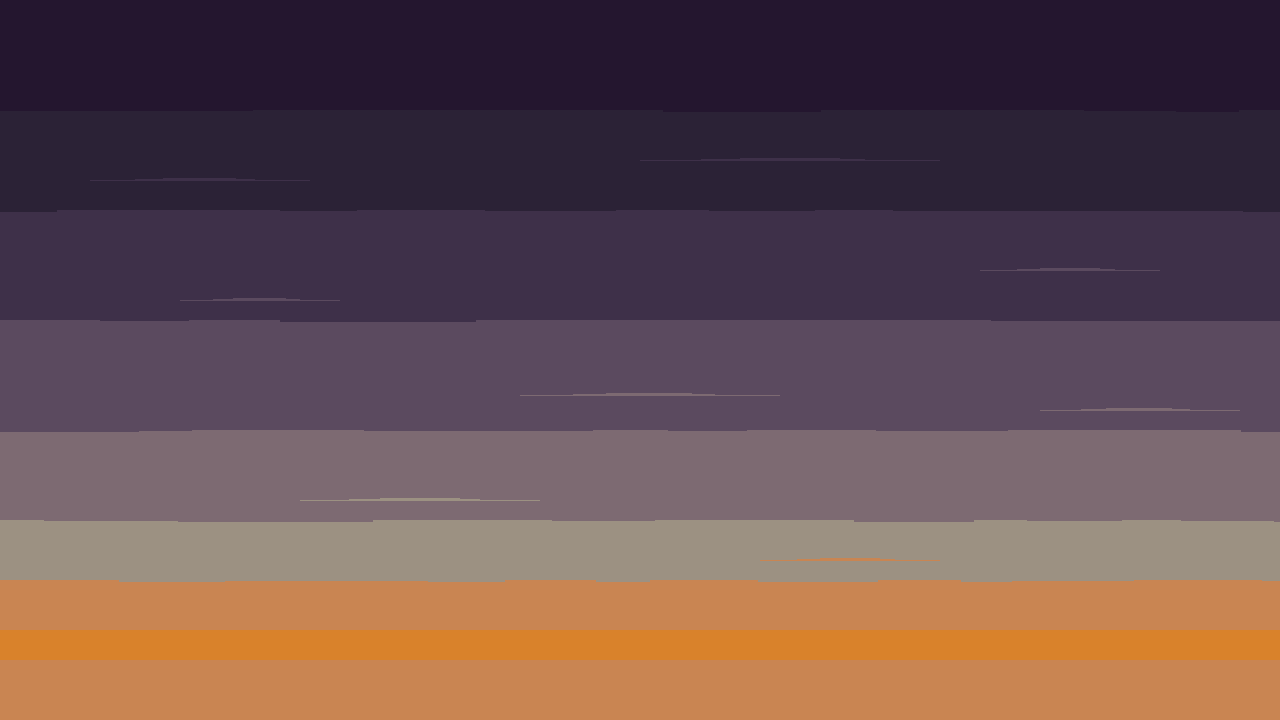
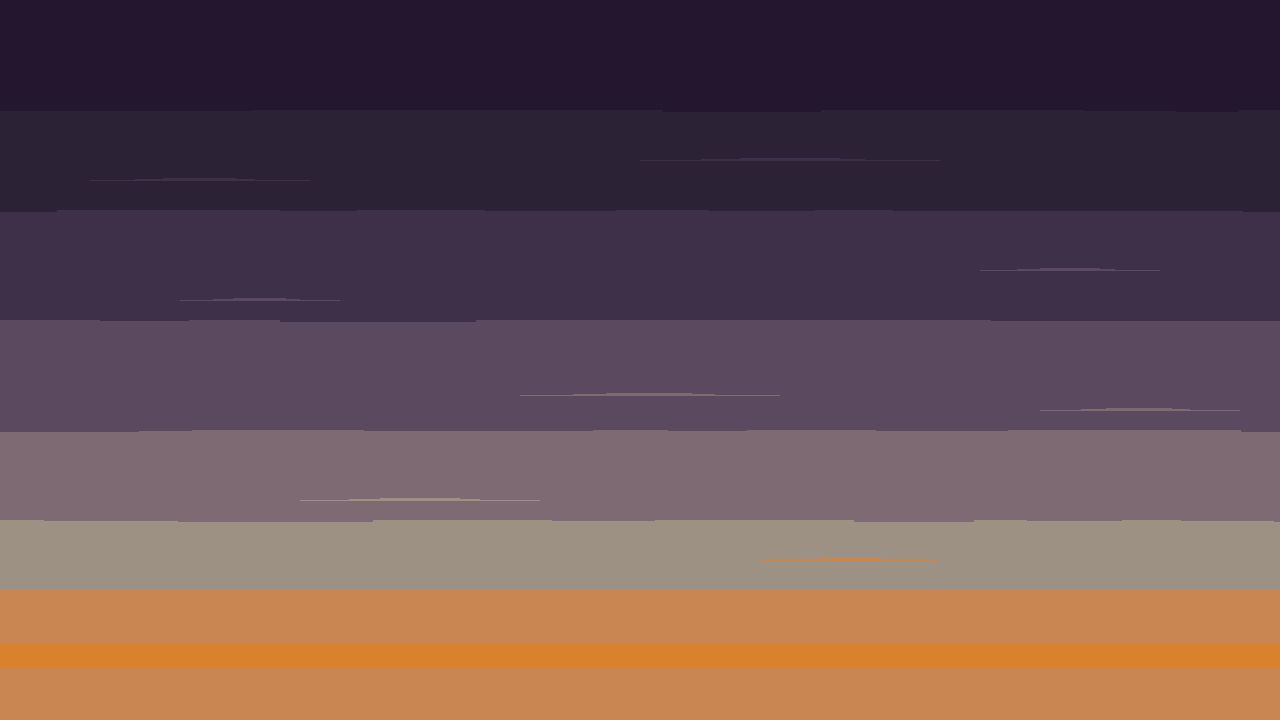
Art Director (WIP): era V rot sheets, mockup tools, violet sky
Claude-Session: https://claude.ai/code/session_013hgiVthTsnhGySSf7gyoCD

Changed region(s): [[0.0, 0.8556, 1.0, 0.9472], [0.0, 0.7944, 1.0, 0.825]]

diff --git a/scripts/art/era5/mock5.py b/scripts/art/era5/mock5.py
@@ -1,0 +1,187 @@
+# Era I-V machine mock + finale key-frame scenes (ART_ERA5). Art-res compositor (1 art px = 1 px).
+# usage: python3 mock5.py out.png            machine on a sky crop (SKY=old|violet|restored), 2x/3x copies written
+#        SCENE=1 python3 mock5.py out.png    1280x720 screen at zoom 0.5 with parallax layers (see scene())
+# env:   U5 era V stage 0..9 (1 nullChamber 2 containmentRing1 3 resonantSiphon1 4 graviticAnchor1 5 inversionCrank
+#        6 lensArray 7 horizonField 8 skyAperture 9 all max), K5 anim frame, PH bead phase deg, AP aperture frame 0..5,
+#        ECL eclipse frame 0..5, plus mock_base env (UNLOCK, U4, K4, CRANK).
+import sys, os, math, json
+sys.path.insert(0, os.path.dirname(os.path.abspath(__file__)))
+from mock_base import *                       # builds eras I-IV into compose.items
+import compose as C
+import numpy as np
+from PIL import Image
+HERE = os.path.dirname(os.path.abspath(__file__))
+R5 = os.path.abspath(HERE + '/../../../public/assets') + '/'
+E5 = R5 + 'machine/era5/'
+SCR = '/tmp/claude-0/-home-user-WhatExatlyDoesThisMachineDo/0b9fa637-9555-52ff-9a39-17f862f1fdae/scratchpad/era5/'
+GEO = json.load(open(os.environ.get('ERA5_GEO', SCR + 'era5-geo.json')))
+U5 = int(os.environ.get('U5', '9')); K5 = int(os.environ.get('K5', '2')); PH = float(os.environ.get('PH', '40'))
+AP = int(os.environ.get('AP', '5' if U5 >= 8 else '0')); PLATE = int(os.environ.get('PLATE', '4'))
+h5 = lambda n: U5 >= n
+OUT = sys.argv[1]
+
+def guy(p, q, sag):
+    cable(p, q, sag, hexc('#3e4246'), FRAME + 5); cable((p[0], p[1] + 1), (q[0], q[1] + 1), sag, hexc('#1f2225'), FRAME + 5)
+
+sprite(E5 + 'name-plate.png', 64, -102, .5, .5, FRAME + 2, frame=(40, 11, PLATE, 6))
+if h5(1):
+    sprite(E5 + 'null-gallery.png', 64, -396, .5, 1, MID + 3)
+    sprite(E5 + 'null-chamber.png', 64, -419, .5, 1, MID + 2)
+    import random as _r
+    k = int(os.environ.get('CORE', '9')) % 64
+    sprite(E5 + 'rot/null-core-rot.png', 64, -490, .5, .5, MID + 2.5, frame=(64, 64, k, 8))
+    sprite(E5 + 'null-core-glint.png', 64, -490, .5, .5, MID + 2.6)
+    nring = 4 if U5 >= 9 else (1 if h5(2) else 0)
+    for i, r in enumerate(GEO['rings'][:nring]):
+        sprite(E5 + r['back'], 64, -490, .5, .5, MID + 1)
+        sprite(E5 + r['front'], 64, -490, .5, .5, MID + 5)
+        ph = math.radians(PH + 97 * i); t = math.radians(r['t'])
+        x, y = r['a'] * math.cos(ph), r['b'] * math.sin(ph)
+        X, Y = x * math.cos(t) - y * math.sin(t), x * math.sin(t) + y * math.cos(t)
+        sprite(E5 + 'ring-bead.png', 64 + X, -490 + Y, .5, .5, MID + 5.5 if math.sin(ph) >= 0 else MID + 1.5)
+    npair = 3 if U5 >= 9 else (1 if h5(3) else 0)
+    for st in range(npair):
+        for x in GEO['siphon']['pairs'][st]: sprite(E5 + 'siphon-tube.png', x, -419, .5, 1, MID + 6)
+        sprite(E5 + f'siphon-arcs-{st + 1}.png', 0, -500, 0, 0, MID + 7, frame=(128, 64, (K5 + st) % 4, 4))
+    if h5(4):
+        gst = 3 if U5 >= 9 else 1
+        for sx in (-520, 520):
+            sprite(E5 + 'gravitic-anchor.png', sx, 0, .5, 1, MID + 0)
+            sprite(E5 + f'anchor-glow-{gst}.png', sx, 0, .5, 1, MID + 0.5, frame=(32, 128, K5 % 4, 4))
+        guy((1, -528), (-520, -121), 6); guy((126, -528), (520, -121), 6)
+        for (x, w) in ((-536, 32), (504, 32)):
+            items.append((-1, len(items), ('pix', [(C.OX + x + i, C.OY + j, hexc('#5f5244')) for i in range(w) for j in (0, 1)])))
+    if h5(5):
+        sprite(E5 + 'rot/inversion-ghost-rot.png', 0, -56, .5, .5, FRONT - 1, frame=(48, 48, (80 - int(os.environ.get('CRANK', '10'))) % 80, 9))
+    if h5(6):
+        sprite(E5 + 'lens-light.png', 64, -535, .5, 1, MID + 1, frame=(32, 48, 2 if U5 >= 8 else K5 % 4, 4))
+        sprite(E5 + 'lens-column.png', 64, -535, .5, 1, MID + 3)
+        sprite(E5 + 'aperture.png', 64, -583, .5, 1, MID + 3, frame=(64, 28, AP, 6))
+    if h5(8) and os.environ.get('BEAM', '1') == '1':
+        bw = os.environ.get('BEAMFILE', 'beam')
+        bim = Image.open(R5 + f'fx/{bw}.png').convert('RGBA').crop(((K5 % 4) * 16, 0, (K5 % 4) * 16 + 16, 32))
+        col = Image.new('RGBA', (16, 4096), (0, 0, 0, 0))
+        for y in range(0, 4096, 32): col.alpha_composite(bim, (0, y))
+        top = -588 - 4096
+        items.append((40, len(items), ('img', col, C.OX + 64 - 8, C.OY + top)))
+# shadows already in era III list; era V anchors added above.
+
+def machine_layer():
+    """machine items rendered on a transparent canvas (for scene composition)."""
+    c = Image.new('RGBA', (C.W, C.H), (0, 0, 0, 0))
+    for d, o, it in sorted(items, key=lambda t: (t[0], t[1])):
+        if it[0] == 'img': c.alpha_composite(it[1], (int(it[2]), int(it[3])))
+        else:
+            a = np.array(c)
+            for x, y, col in it[1]:
+                if 0 <= x < C.W and 0 <= y < C.H: a[y, x] = col
+            c = Image.fromarray(a)
+    return c
+
+def tile_x(im, width, x0):
+    out = Image.new('RGBA', (width, im.height), (0, 0, 0, 0)); w = im.width; x = -(x0 % w)
+    while x < width: out.alpha_composite(im, (x, 0)) if x >= 0 else out.alpha_composite(im.crop((-x, 0, w, im.height)), (0, 0)); x += w
+    return out
+def with_alpha(im, a):
+    arr = np.array(im).astype(float); arr[..., 3] *= a; return Image.fromarray(arr.astype(np.uint8))
+def tint(im, rgb):
+    arr = np.array(im).astype(float); arr[..., :3] *= np.array(rgb) / 255.0; return Image.fromarray(arr.astype(np.uint8))
+
+def scene(out):
+    """1280x720 screen, zoom 0.5 (1 art px = 1 screen px), camera centred on the machine bounds (x 0, y -300 art)."""
+    W, H = 1280, 720; gy = 360 + 300 + int(os.environ.get('CAMDY', '0'))   # screen row of art y 0
+    gx = 640
+    mode = os.environ.get('WORLD', 'violet')     # old | violet | mid | restored
+    mix = float(os.environ.get('MIX', '0.5'))
+    sky_old = Image.open(R5 + 'bg/sky.png').convert('RGBA')
+    sky_v = Image.open(R5 + 'finale/sky-violet.png').convert('RGBA')
+    sky_r = Image.open(R5 + 'finale/sky-restored.png').convert('RGBA')
+    if mode == 'old': sky = sky_old.copy()
+    elif mode == 'violet': sky = sky_v.copy()
+    elif mode == 'mid': sky = Image.blend(sky_v, sky_r, mix)
+    else: sky = sky_r.copy()
+    hz = float(os.environ.get('HORIZON', '0.55' if mode in ('violet',) else '0'))
+    if hz > 0: sky.alpha_composite(with_alpha(Image.open(R5 + 'finale/horizon-glow.png').convert('RGBA'), hz))
+    ecl = int(os.environ.get('ECL', '5' if mode == 'violet' else '0'))
+    if mode != 'restored' and not (mode == 'mid' and mix > .5):
+        e = Image.open(R5 + 'finale/eclipse.png').convert('RGBA').crop((ecl * 48, 0, ecl * 48 + 48, 48))
+        sky.alpha_composite(e, (372 - 24, 290 - 24))
+    cv = sky.copy()
+    d_art = 300 - 80                                  # camera centre above CAMERA.focus (art px)
+    def layer(old, new, sf, alpha, ground_row, underfill, tnt=None):
+        lift = int(round(d_art * (1 - sf)))           # parallax: layer horizon rises above the machine ground
+        y_ground = gy - lift
+        imgs = []
+        if mode in ('old', 'violet'): imgs = [(old, 1.0)]
+        elif mode == 'restored': imgs = [(new, 1.0)]
+        else: imgs = [(old, 1 - mix), (new, mix)]
+        for path, a in imgs:
+            im = Image.open(path).convert('RGBA')
+            if tnt: im = tint(im, tnt)
+            strip = tile_x(im, W, int(-gx * sf) + 300)
+            top = y_ground - ground_row
+            cv.alpha_composite(with_alpha(strip, alpha * a), (0, top))
+            if underfill:
+                uf = Image.new('RGBA', (W, max(0, H - (top + im.height))), underfill + (int(255 * alpha * a),))
+                cv.alpha_composite(uf, (0, top + im.height))
+    layer(R5 + 'bg/mountains.png', R5 + 'finale/mountains-restored.png', .15, .45, 156, (0x5a, 0x5f, 0x63))
+    layer(R5 + 'bg/skyline.png', R5 + 'finale/skyline-restored.png', .3, .4, 220, (0x2b, 0x2e, 0x31))
+    layer(R5 + 'bg/pylons.png', R5 + 'bg/pylons.png', .55, .45, 156, None, (0xb8, 0xa9, 0x8f))
+    layer(R5 + 'bg/pylons-lit.png', R5 + 'bg/pylons-lit.png', .55, .7, 156, None)
+    # ground
+    g_old = Image.open(R5 + 'terrain/ground.png').convert('RGBA'); g_new = Image.open(R5 + 'terrain/ground-green.png').convert('RGBA')
+    def gstrip(im):
+        s = Image.new('RGBA', (W, H - gy), (0, 0, 0, 0))
+        for y in range(0, H - gy, im.height):
+            s.alpha_composite(tile_x(im, W, -gx), (0, y))
+        return s
+    gs = gstrip(g_old)
+    if mode == 'restored': gs = gstrip(g_new)
+    elif mode == 'mid':
+        gn = gstrip(g_new); wipe = int(os.environ.get('WIPE', '360'))        # green spreads outward from the machine (screen px)
+        m = Image.new('L', gs.size, 0); ma = np.array(m); ma[:, max(0, gx - wipe):gx + wipe] = 255
+        gs.paste(gn, (0, 0), Image.fromarray(ma))
+    cv.alpha_composite(gs, (0, gy))
+    hs = Image.new('RGBA', (W, 3), (0x4e, 0x2a, 0x1a, 150)); cv.alpha_composite(hs, (0, gy))
+    # regrowth strips
+    st = int(os.environ.get('REGROW', '3' if mode == 'restored' else '0'))
+    for s_ in range(1, st + 1):
+        rg = Image.open(R5 + f'finale/regrowth-{s_}.png').convert('RGBA'); strip = tile_x(rg, W, -gx + 37 * s_)
+        if mode == 'mid':
+            wipe = int(os.environ.get('WIPE', '360')); a = np.array(strip); a[:, :max(0, gx - wipe)] = 0; a[:, gx + wipe:] = 0; strip = Image.fromarray(a)
+        cv.alpha_composite(strip, (0, gy - 32 + 3))
+    # machine
+    ml = machine_layer(); cv.alpha_composite(ml, (gx - C.OX, gy - C.OY))
+    # fx overlays (white fade / birds / seeds)
+    wf = float(os.environ.get('WHITE', '0'))
+    if wf > 0: cv.alpha_composite(Image.new('RGBA', (W, H), (0xe8, 0xe0, 0xcc, int(255 * wf))))
+    if os.environ.get('BIRDS') == '1':
+        b = Image.open(R5 + 'fx/bird.png').convert('RGBA')
+        for i, (x, y) in enumerate(((880, 150), (902, 142), (918, 158), (940, 147), (300, 210), (318, 204))):
+            cv.alpha_composite(b.crop(((i % 2) * 8, 0, (i % 2) * 8 + 8, 5)), (x, y))
+    if os.environ.get('SEEDS') == '1':
+        sd = Image.open(R5 + 'fx/seed.png').convert('RGBA')
+        for i, (x, y) in enumerate(((420, 520), (760, 470), (980, 560), (210, 600), (1120, 500), (560, 420))):
+            cv.alpha_composite(sd.crop(((i % 4) * 8, 0, (i % 4) * 8 + 8, 8)), (x, y))
+    ui = os.environ.get('UI')
+    if ui:
+        for spec in ui.split(';'):
+            p, x, y = spec.split(','); im = Image.open(p).convert('RGBA'); cv.alpha_composite(im, (int(x), int(y)))
+    cv.save(out)
+    if os.environ.get('K2') == '1': cv.resize((W * 2, H * 2), Image.NEAREST).save(out.replace('.png', '-2x.png'))
+    return cv
+
+if os.environ.get('SCENE') == '1':
+    scene(OUT)
+else:
+    sky = os.environ.get('SKY', 'violet')
+    C.R = R5
+    im = render(OUT, int(os.environ.get('KX', '2')))
+    if sky != 'old':
+        p = {'violet': 'finale/sky-violet.png', 'restored': 'finale/sky-restored.png'}[sky]
+        base = Image.open(R5 + p).convert('RGBA').crop((40, 0, 40 + C.W, C.H))
+        ga = Image.new('RGBA', (C.W, C.H - C.OY), (0x8a, 0x7a, 0x64, 255) if sky != 'restored' else (0x5f, 0x8a, 0x4a, 255))
+        base.alpha_composite(ga, (0, C.OY))
+        base.alpha_composite(machine_layer())
+        base.save(OUT)
+        for kx in (2, 3): base.resize((C.W * kx, C.H * kx), Image.NEAREST).save(OUT.replace('.png', f'-{kx}x.png'))

diff --git a/scripts/art/era5/mock_base.py b/scripts/art/era5/mock_base.py
@@ -1,0 +1,153 @@
+# Full-machine mock: eras I-IV (ART_ERA2/3/4) + era V (ART_ERA5) + finale scenes. Art-res compositor.
+# Imported by mock5.py (do not run directly).
+# env: UNLOCK (era III stage, default 9), U4 (era IV stage 0..9, default 9), K4 (era IV anim frame), CRANK (hand-crank rot frame 0..79)
+# usage: python3 mock3.py out.png [stage=3] [theta_deg=0] [fireStage=3] [frame=0] [gaugeFrame=17] [era3=1] [puffs=1]
+import sys, math, os
+sys.path.insert(0, os.path.dirname(os.path.abspath(__file__)))
+sys.path.insert(0, os.path.dirname(os.path.abspath(__file__)) + '/../era4')
+import compose as C
+from compose import *
[2 lines of base64/hex data omitted]
+FX = os.environ.get('FX', '/home/user/WhatExatlyDoesThisMachineDo/public/assets/fx/')
+C.OX, C.OY, C.W, C.H = int(os.environ.get('MOX', 600)), int(os.environ.get('MOY', 650)), int(os.environ.get('MW', 1200)), int(os.environ.get('MH', 700))
+a = sys.argv + [None] * 9
+out = a[1]; STAGE = int(a[2] or 3); TH = float(a[3] or 0); FIRE = int(a[4] or 3); FR = int(a[5] or 0); GF = int(a[6] or 17)
+ERA3 = int(a[7] if a[7] is not None else 1); PUFFS = int(a[8] if a[8] is not None else 1)
+MID, FRAME, BACK, FRONT = 20, 10, 0, 30
+
+era1()
+# ---- era II (CR1 hub y -22, CR2 spark on rack, CR3 kit -24)
+sprite(E2 + 'generator-plinth.png', 264, 0, .5, 1, MID + 0)
+sprite(E2 + 'generator.png', 264, -42, .5, .5, MID + 1)
+for s in range(1, 4): sprite(E2 + f'coils-{s}.png', 264, -42, .5, .5, MID + 1 + s)
+sprite(E2 + 'rot/pulley-generator-rot.png', 268, -25, .5, .5, MID + 5, frame=(20, 20, 0, 9))
+raster_belt(None, (150, -56), 12, (268, -25), 8, hexc('#2e1a12'), hexc('#6e3a22'))
+cap(268, -25)
+sprite(E2 + 'motor-retrofit.png', -140, -51, .5, .5, MID + 3)
+sprite(E2 + 'dynamo.png', 70, -36, .5, .5, FRAME + 2)
+sprite(E2 + 'capacitor-rack.png', 340, 0, .5, 1, MID + 0)
+sprite(E2 + 'spark-gap.png', 340, -53, .5, 1, MID + 6, frame=(32, 48, 2, 4))
+sprite(E2 + 'transformer.png', 396, 0, .5, 1, MID + 0)
+sprite(E2 + 'cable-mast.png', 436, 0, .5, 1, BACK)
+def ccable(p, q, sag):
+    cable(p, q, sag, hexc('#5fa8b4'), 31); cable((p[0], p[1] + 1), (q[0], q[1] + 1), sag, hexc('#2f5a62'), 31)
+ccable((412, -60), (436, -108), 10); ccable((284, -68), (323, -38), 4); ccable((357, -38), (384, -60), 3)
+cable((436, -108), (460, -116), 3, hexc('#2f5a62'), 31)
+
+# ---- era III
+PIPE_DEPTH = FRAME + 5          # above frame/back parts, behind every mid part (chimney, boiler, hammer, turbine)
+STEAM = {'prof': ['#7d8286', '#5a5f63', '#3e4246', '#1f2225'], 'fl': [['#14110f', '#a3a6a4', '#7d8286', '#5a5f63', '#3e4246', '#14110f'],
+                                                                     ['#14110f', '#7d8286', '#5a5f63', '#3e4246', '#2b2e31', '#14110f']], 'flEvery': 24}
+WATER = {'prof': ['#5a5f63', '#2b2e31'], 'fl': [['#14110f', '#7d8286', '#3e4246', '#14110f'], ['#14110f', '#5a5f63', '#2b2e31', '#14110f']], 'flEvery': 24}
+def pipe(pts, st, depth=PIPE_DEPTH):
+    """orthogonal polyline through pixel-corner points; bore n = len(prof) px centred on the corner line."""
+    n = len(st['prof']); h = n // 2; px = []
+    P = lambda x, y, c: px.append((C.OX + x, C.OY + y, hexc(c)))
+    for (x0, y0), (x1, y1) in zip(pts, pts[1:]):
+        if y0 == y1:                                  # horizontal: rows y0-h .. y0+h-1, cols [min, max)
+            lo, hi = min(x0, x1), max(x0, x1)
+            for x in range(lo, hi):
+                for j in range(n): P(x, y0 - h + j, st['prof'][j])
+            L = hi - lo
+            marks = [0, L - 2] + list(range(st['flEvery'], L - 4, st['flEvery']))
+            for m in marks:
+                for k in range(2):
+                    for j, c in enumerate(st['fl'][k]): P(lo + m + k, y0 - h - 1 + j, c)
+        else:                                         # vertical: cols x0-h .. x0+h-1 (profile left->right)
+            lo, hi = min(y0, y1), max(y0, y1)
+            for y in range(lo, hi):
+                for j in range(n): P(x0 - h + j, y, st['prof'][j])
+            L = hi - lo
+            marks = [0, L - 2] + list(range(st['flEvery'], L - 4, st['flEvery']))
+            for m in marks:
+                for k in range(2):
+                    for j, c in enumerate(st['fl'][k]): P(x0 - h - 1 + j, lo + m + k, c)
+    for (x, y) in pts[1:-1]:                          # elbow / tee fitting: (n+2)^2 block
+        s = n + 2
+        for j in range(s):
+            for i in range(s):
+                c = '#14110f' if i in (0, s - 1) or j in (0, s - 1) else ('#7d8286' if i + j <= s // 2 + 1 else '#5a5f63' if i + j < s else '#3e4246')
+                P(x - h - 1 + i, y - h - 1 + j, c)
+    items.append((depth, len(items), ('pix', px)))
+
+U = int(os.environ.get('UNLOCK', '9'))   # 1 boiler 2 firebox 3 heater 4 hammer 5 superheater 6 condenser 7 turbine 8 relief 9 all
+if ERA3:
+    has = lambda n: U >= n
+    if has(6): sprite(E3 + 'condenser.png', -402, 0, .5, 1, MID + 0)
+    if has(7):
+        sprite(E3 + 'turbine.png', -402, -24, .5, 1, MID + 1)
+        k = int(round((TH * 6 % 360) / 360 * 64)) % 64
+        sprite(E3 + 'rot/turbine-rotor-rot.png', -412, -54, .5, .5, MID + 2, frame=(28, 28, k, 8))
+    if has(4):
+        s = 7 * (1 + math.cos(math.radians(TH)))
+        sprite(E3 + 'hammer-ram.png', -334, -22 - round(s), .5, 1, MID + 0)
+        sprite(E3 + 'steam-hammer.png', -334, 0, .5, 1, MID + 1)
+    sprite(E3 + 'boiler.png', -240, 0, .5, 1, MID + 0)
+    sprite(E3 + 'chimney.png', -293, -78, .5, 1, MID + 1)
+    if has(2) and FIRE >= 1: sprite(E3 + f'firebox-{FIRE}.png', -196, -32, .5, .5, MID + 2, frame=(24, 24, FR, 4))
+    if has(3): sprite(E3 + 'induction-heater.png', -200, -36, .5, 1, MID + 3)
+    if has(5): sprite(E3 + 'superheater.png', -268, -73, .5, 1, MID + 2)
+    if has(8): sprite(E3 + 'relief-valves.png', -214, -77, .5, 1, MID + 2)
+    sprite(E3 + 'gauge.png', -192, -77, .5, 1, MID + 2)
+    sprite(E3 + 'gauge-needle.png', -192, -77, .5, 1, MID + 3, frame=(24, 24, GF, 25))
+    sprite(E3 + 'steam-manifold.png', -44, -168, .5, 1, BACK + 2)
+    pipe([(-246, -91), (-246, -112), (-98, -112), (-98, -176), (-92, -176)], STEAM)       # P1 boiler -> piston manifold
+    if has(4): pipe([(-246, -91), (-246, -112), (-323, -112), (-323, -79)], STEAM)         # P2 boiler -> hammer valve chest
+    if has(7): pipe([(-246, -91), (-246, -112), (-412, -112), (-412, -86)], STEAM)         # P3 boiler -> turbine nozzle
+    if has(6): pipe([(-358, -3), (-308, -3), (-308, -46), (-304, -46)], WATER, depth=MID - 1)   # W1 condensate -> boiler feed
+    if has(3): ccable((-140, -54), (-175, -74), 3)                                         # C1 retrofit kit -> induction heater
+    sh = [(-304, 128)] + ([(-358, 48)] if has(4) else []) + ([(-442, 80)] if has(6) else [])
+    for (x, w) in sh:
+        items.append((-1, len(items), ('pix', [(C.OX + x + i, C.OY + j, hexc('#5f5244')) for i in range(w) for j in (0, 1)])))
+    if PUFFS:
+        sprite(FX + 'smoke.png', -293, -246, .5, .5, 40, frame=(16, 16, 1, 4)); sprite(FX + 'smoke.png', -287, -262, .5, .5, 40, frame=(16, 16, 2, 4))
+        sprite(FX + 'smoke.png', -278, -276, .5, .5, 40, frame=(16, 16, 3, 4))
+        if has(8): sprite(FX + 'steam-puff.png', -218, -88, .5, .5, 40, frame=(16, 16, 1, 4))
+        if has(4): sprite(FX + 'steam-puff.png', -334, -100, .5, .5, 40, frame=(16, 16, 0, 4))
+        sprite(FX + 'steam-puff.png', -70, -184, .5, .5, 40, frame=(16, 16, 2, 4))
+# ---- era IV (ART_ERA4). U4 stage: 1 spire 2 harmonicCoil1 3 pressureResonator 4 crankServo 5 echoCrank 6 phaseLock
+#      7 standingWave 8 crystalLattice 9 all (harmonicCoil 25)
+import json as _json
[1 lines of base64/hex data omitted]
+U4 = int(os.environ.get('U4', '9')); K4 = int(os.environ.get('K4', '2')); CRK = int(os.environ.get('CRANK', '10'))
+_G4 = os.environ.get('ERA4_GEN', '/tmp/claude-0/-home-user-WhatExatlyDoesThisMachineDo/0b9fa637-9555-52ff-9a39-17f862f1fdae/scratchpad/era4/gen/')
+def _flip(path):
+    from PIL import Image as _I
+    p = _G4 + 'flip-' + os.path.basename(path)
+    im = _I.open(path); fw = im.width // (int(os.environ.get('_NF', '1')))
+    im.transpose(_I.FLIP_LEFT_RIGHT).save(p); return p
+if U4 >= 1:
+    h4 = lambda n: U4 >= n
+    geo = _json.load(open(_G4 + 'tower-geo.json')); rings = _json.load(open(_G4 + 'rings.json'))
+    sprite(E4 + 'spire-tower.png', 64, -110, .5, 1, MID + 0)
+    sprite(E4 + 'spire-exciter.png', 64, -110, .5, 1, MID + 2)
+    pipe([(-11, -176), (48, -176), (48, -126), (52, -126)], STEAM)                 # P4 manifold -> exciter
+    if h4(7): sprite(E4 + 'spire-wave.png', 64, -142, .5, 1, MID + 1, frame=(16, 270, K4 % 8, 8))
+    lv = 25 if U4 >= 9 else (1 if h4(2) else 0)
+    for r in rings:
+        if lv >= r['level']: sprite(E4 + f"coil-ring-{r['id'][-1]}.png", r['centre'][0], r['centre'][1], .5, .5, MID + 3, frame=(r['w'], r['h'], K4 % 4, 4))
+    if h4(3): sprite(E4 + 'calliope.png', -44, -178, .5, 1, BACK + 3)
+    if h4(5): sprite(E4 + 'koenig-fork.png', 16, -110, .5, 1, MID + 0, frame=(22, 44, K4 % 4, 4))
+    if h4(6):
+        oL = geo['outer_world_x']['-361'][0]; xl = oL - 20; xr = 128 - xl
+        sprite(E4 + 'emitter-dish.png', xl, -360, .5, .5, MID + 4)
+        sprite(_flip(E4 + 'emitter-dish.png'), xr, -360, .5, .5, MID + 4)
+        wk = K4 % 6
+        sprite(E4 + 'dish-waves.png', xl - 40, -360, .5, .5, MID + 4, frame=(40, 64, wk, 6))
+        from PIL import Image as _I
+        wim = _I.open(E4 + 'dish-waves.png').crop((wk * 40, 0, wk * 40 + 40, 64)).transpose(_I.FLIP_LEFT_RIGHT); wp = _G4 + 'flip-wave.png'; wim.save(wp)
+        sprite(wp, xr + 40, -360, .5, .5, MID + 4)
+    if h4(8): sprite(E4 + 'crystal.png', 64, -418, .5, 1, MID + 4, frame=(32, 48, K4 % 4, 4))
+    # crank group at a common angle: replace era I static crank by its rot frame; servo arm uses the same frame (parallel crank)
+    items[:] = [it for it in items if not (it[0] == 30 and it[2][0] == 'img' and it[2][1].size == (48, 48))]
+    sprite(M + 'rot/hand-crank-rot.png', 0, -56, .5, .5, FRONT, frame=(48, 48, CRK % 80, 9))
+    if h4(4):
+        sprite(E4 + 'servo-base.png', 0, -14, .5, 1, MID + 3)
+        sprite(E4 + 'rot/servo-arm-rot.png', 0, -24, .5, .5, FRONT + 3, frame=(48, 48, CRK % 80, 9))
+        ang = math.radians(CRK * 4.5); dx, dy = 19 * math.sin(ang), -19 * math.cos(ang)
+        p0, p1 = (dx, -24 + dy), (dx, -56 + dy)
+        for o in (-1, 0, 1): line((p0[0] + o, p0[1]), (p1[0] + o, p1[1]), hexc('#7d8286') if o == 0 else hexc('#3e4246'), FRONT + 4)
+        for (px_, py_) in (p0, p1):
+            items.append((FRONT + 5, len(items), ('pix', [(math.floor(C.OX + px_ + i), math.floor(C.OY + py_ + j), hexc('#5a5f63') if (i, j) != (0, 0) else hexc('#a3a6a4')) for i in (-1, 0, 1) for j in (-1, 0, 1)])))
+

diff --git a/scripts/art/era5/bg.py b/scripts/art/era5/bg.py
@@ -23,7 +23,7 @@ def streak(a, x0, y, w, k, rnd, step=3):
 # ---------------------------------------------------------------- Era V sky: dusk violet bands + 360 deg eclipse horizon glow
 def sky_violet():
     a = bands([(0, 109, 'x0'), (110, 209, 'd0'), (210, 319, 'd1'), (320, 429, 'd2'), (430, 519, 'd3'),
-               (520, 579, 'k1'), (580, 629, 'r5'), (630, 659, 'a0'), (660, 719, 'r5')])
+               (520, 589, 'k1'), (590, 643, 'r5'), (644, 667, 'a0'), (668, 719, 'r5')])
     rnd = random.Random(5)
     # band edges broken by short steps (no straight ruler lines over 1280 px)
     for (y, k_up, k_dn) in ((110, 'x0', 'd0'), (210, 'd0', 'd1'), (320, 'd1', 'd2'), (430, 'd2', 'd3'), (520, 'd3', 'k1'), (580, 'k1', 'r5')):
